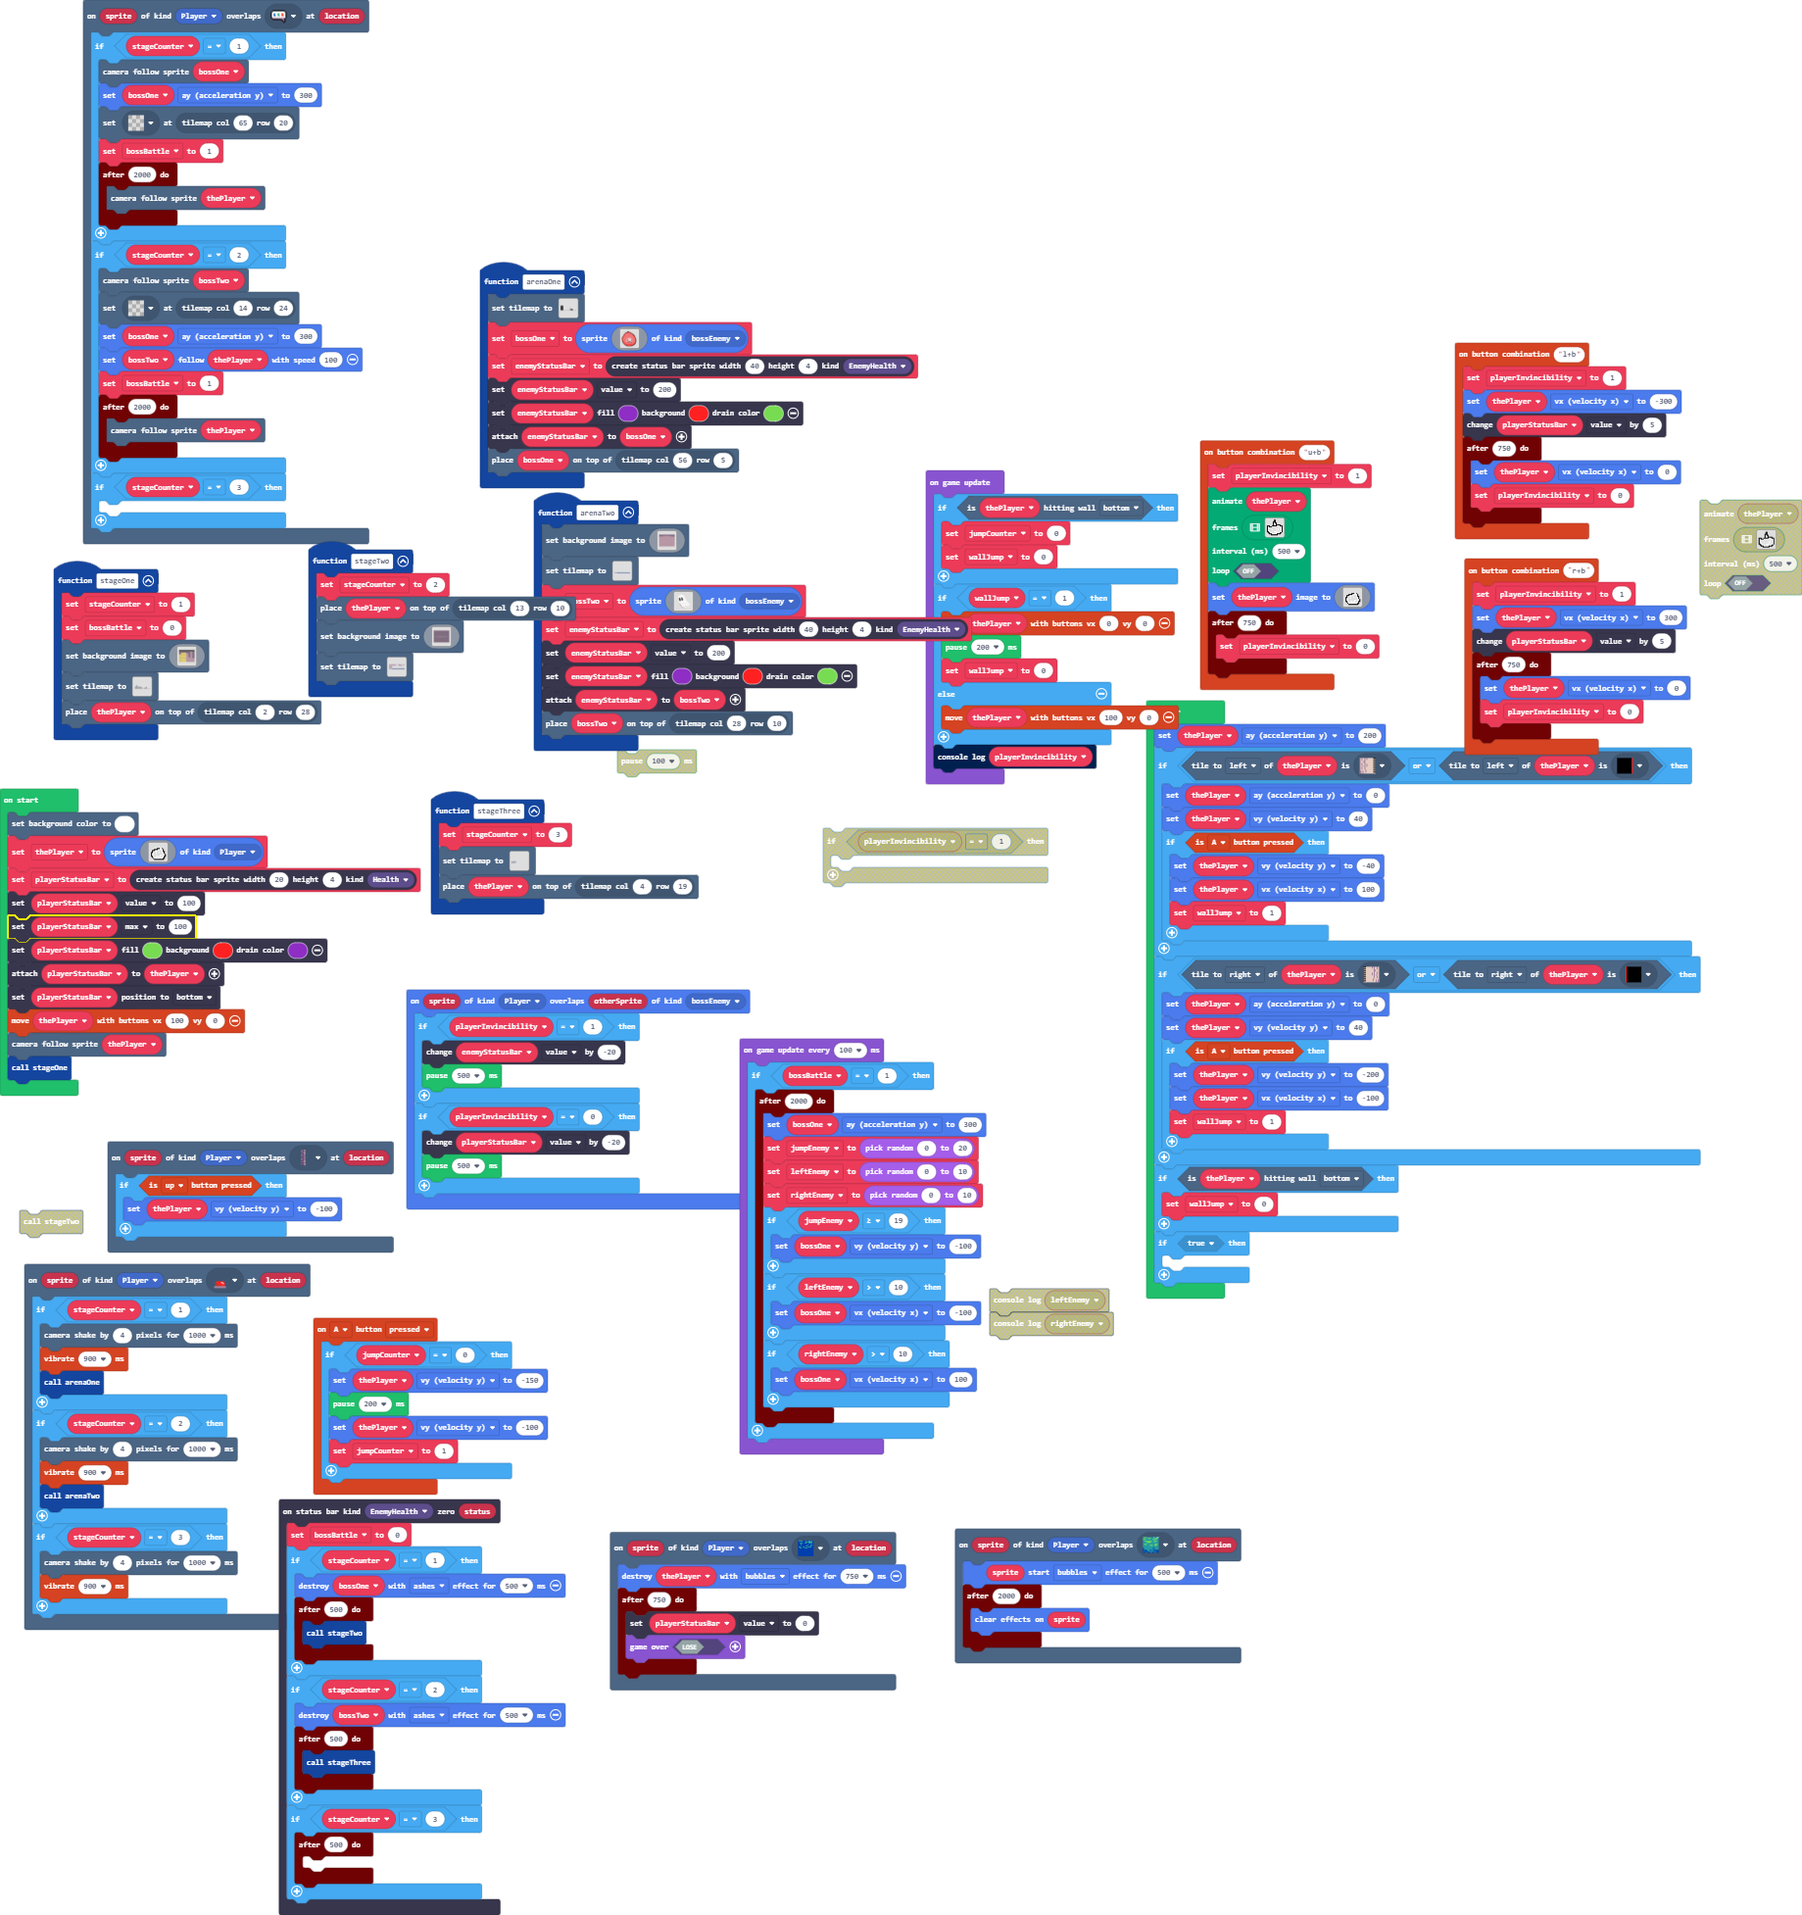
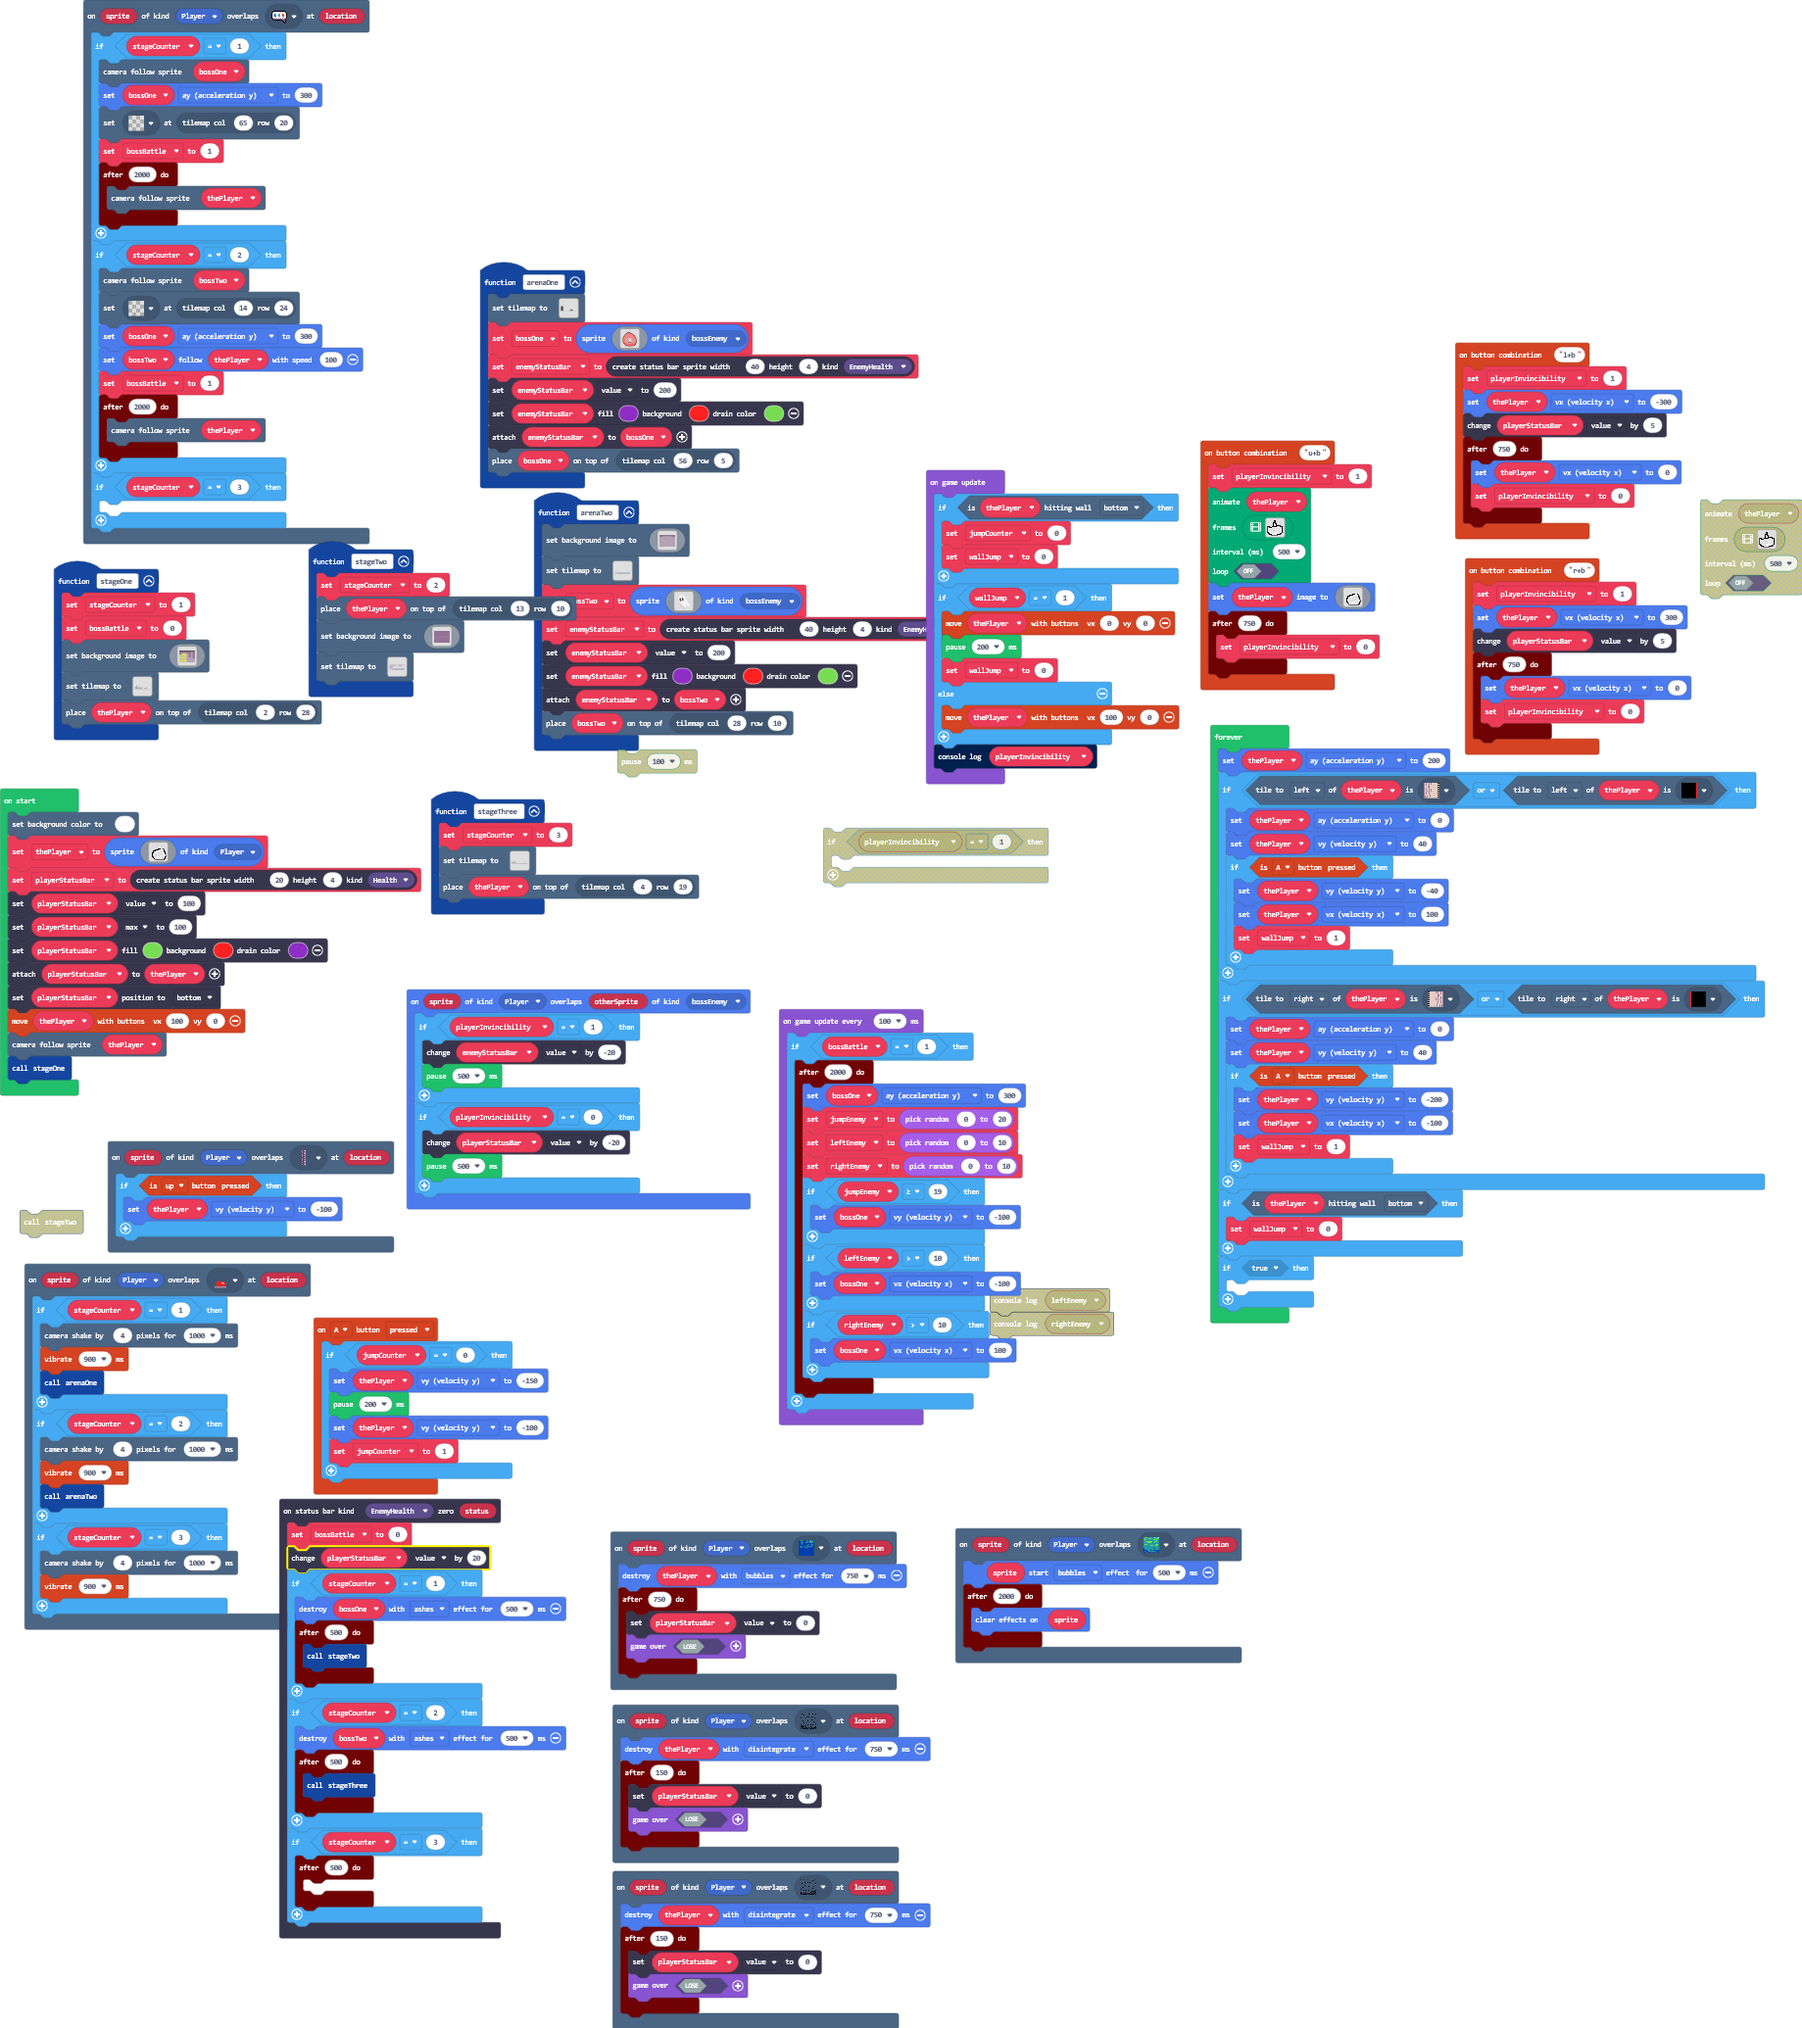
Update main.blocks, main.ts, tilemap.g.jres, tilemap.g.ts

diff --git a/tilemap.g.ts b/tilemap.g.ts
@@ -88,6 +88,10 @@ namespace myTiles {
     export const tile42 = image.ofBuffer(hex``);
     //% fixedInstance jres blockIdentity=images._tile
     export const tile43 = image.ofBuffer(hex``);
+    //% fixedInstance jres blockIdentity=images._tile
+    export const tile44 = image.ofBuffer(hex``);
+    //% fixedInstance jres blockIdentity=images._tile
+    export const tile45 = image.ofBuffer(hex``);
 
     helpers._registerFactory("tilemap", function(name: string) {
         switch(helpers.stringTrim(name)) {
@@ -214,39 +218,6 @@ namespace myTiles {
 . . . . . . . . . . . . . . . . 
 . . . . . . . . . . . . . . . . 
 `, [myTiles.transparency16], TileScale.Sixteen);
-            case "level5":
[1 lines of base64/hex data omitted]
-....................................................................................................
-....................................................................................................
-....................................................................................................
-....................................................................................................
-....................................................................................................
-....................................................................................................
-....................................................................................................
-....................................................................................................
-....................................................................................................
-....................................................................................................
-....................................................................................................
-....................................................................................................
-....................................................................................................
-....................................................................................................
-....................................................................................................
-....................................................................................................
-....................................................................................................
-....................................................................................................
-...............2222.....2222........................................................................
-....................................................................................................
-222222....22222.....................................................................................
-.....2..............................................................................................
-.....2..............................................................................................
-.....2..............................................................................................
-.....2..............................................................................................
-.....2..............................................................................................
-.....2..............................................................................................
-.....2..............................................................................................
-.....2..............................................................................................
-.....2..............................................................................................
-`, [myTiles.transparency16,myTiles.tile12,myTiles.tile14,myTiles.tile15,myTiles.tile16,myTiles.tile34,myTiles.tile35,myTiles.tile36,myTiles.tile37,myTiles.tile38,myTiles.tile39,myTiles.tile40,myTiles.tile41], TileScale.Sixteen);
             case "level7":
[1 lines of base64/hex data omitted]
 ....................................................................................................
@@ -313,6 +284,39 @@ namespace myTiles {
 .............................................22222.................................................2
 2222222222222222222222222222222222222222222222222222222222222222222222222222222222222222222222222222
 `, [myTiles.transparency16,myTiles.tile2,myTiles.tile3,myTiles.tile6,myTiles.tile11,myTiles.tile12,myTiles.tile13,myTiles.tile14,myTiles.tile15,myTiles.tile16,myTiles.tile33,myTiles.tile34,myTiles.tile35,myTiles.tile36,myTiles.tile37,myTiles.tile38,myTiles.tile39,myTiles.tile40,myTiles.tile41,myTiles.tile42,myTiles.tile43], TileScale.Sixteen);
+            case "level5":
[1 lines of base64/hex data omitted]
+....................................................................................................
+....................................................................................................
+....................................................................................................
+....................................................................................................
+....................................................................................................
+....................................................................................................
+....................................................................................................
+....................................................................................................
+....................................................................................................
+....................................................................................................
+....................................................................................................
+....................................................................................................
+....................................................................................................
+....................................................................................................
+....................................................................................................
+....................................................................................................
+....................................................................................................
+....................................................................................................
+...............2222.....2222........................................................................
+....................................................................................................
+222222....22222.....................................................................................
+.....2..............................................................................................
+.....2..............................................................................................
+.....2..............................................................................................
+.....2..............................................................................................
+.....2..............................................................................................
+.....2..............................................................................................
+.....2..............................................................................................
+.....2..............................................................................................
+.....2..............................................................................................
+`, [myTiles.transparency16,myTiles.tile12,myTiles.tile14,myTiles.tile15,myTiles.tile16,myTiles.tile34,myTiles.tile35,myTiles.tile36,myTiles.tile37,myTiles.tile38,myTiles.tile39,myTiles.tile40,myTiles.tile41,myTiles.tile44,myTiles.tile45], TileScale.Sixteen);
         }
         return null;
     })
@@ -406,6 +410,10 @@ namespace myTiles {
             case "tile42":return tile42;
             case "myTile41":
             case "tile43":return tile43;
+            case "myTile42":
+            case "tile44":return tile44;
+            case "myTile43":
+            case "tile45":return tile45;
         }
         return null;
     })

diff --git a/main.ts b/main.ts
@@ -60,6 +60,13 @@ controller.combos.attachCombo("r+b", function () {
         playerInvincibility = 0
     })
 })
+scene.onOverlapTile(SpriteKind.Player, assets.tile`myTile42`, function (sprite, location) {
+    thePlayer.destroy(effects.disintegrate, 750)
+    timer.after(150, function () {
+        playerStatusBar.value = 0
+        game.over(false)
+    })
+})
 function arenaTwo () {
     scene.setBackgroundImage(img`
         cccccccccccccccccccccccccccccccccccccccccccccccccccccccccccccccccccccccccccccccccccccccccccccccccccccccccccccccccccccccccccccccccccccccccccccccccccccccccccccccc
@@ -244,6 +251,7 @@ function arenaTwo () {
 }
 statusbars.onZero(StatusBarKind.EnemyHealth, function (status) {
     bossBattle = 0
+    playerStatusBar.value += 20
     if (stageCounter == 1) {
         bossOne.destroy(effects.ashes, 500)
         timer.after(500, function () {
@@ -611,6 +619,13 @@ scene.onOverlapTile(SpriteKind.Player, assets.tile`myTile8`, function (sprite, l
     if (stageCounter == 3) {
     	
     }
+})
+scene.onOverlapTile(SpriteKind.Player, assets.tile`myTile43`, function (sprite, location) {
+    thePlayer.destroy(effects.disintegrate, 750)
+    timer.after(150, function () {
+        playerStatusBar.value = 0
+        game.over(false)
+    })
 })
 controller.combos.attachCombo("l+b", function () {
     playerInvincibility = 1
